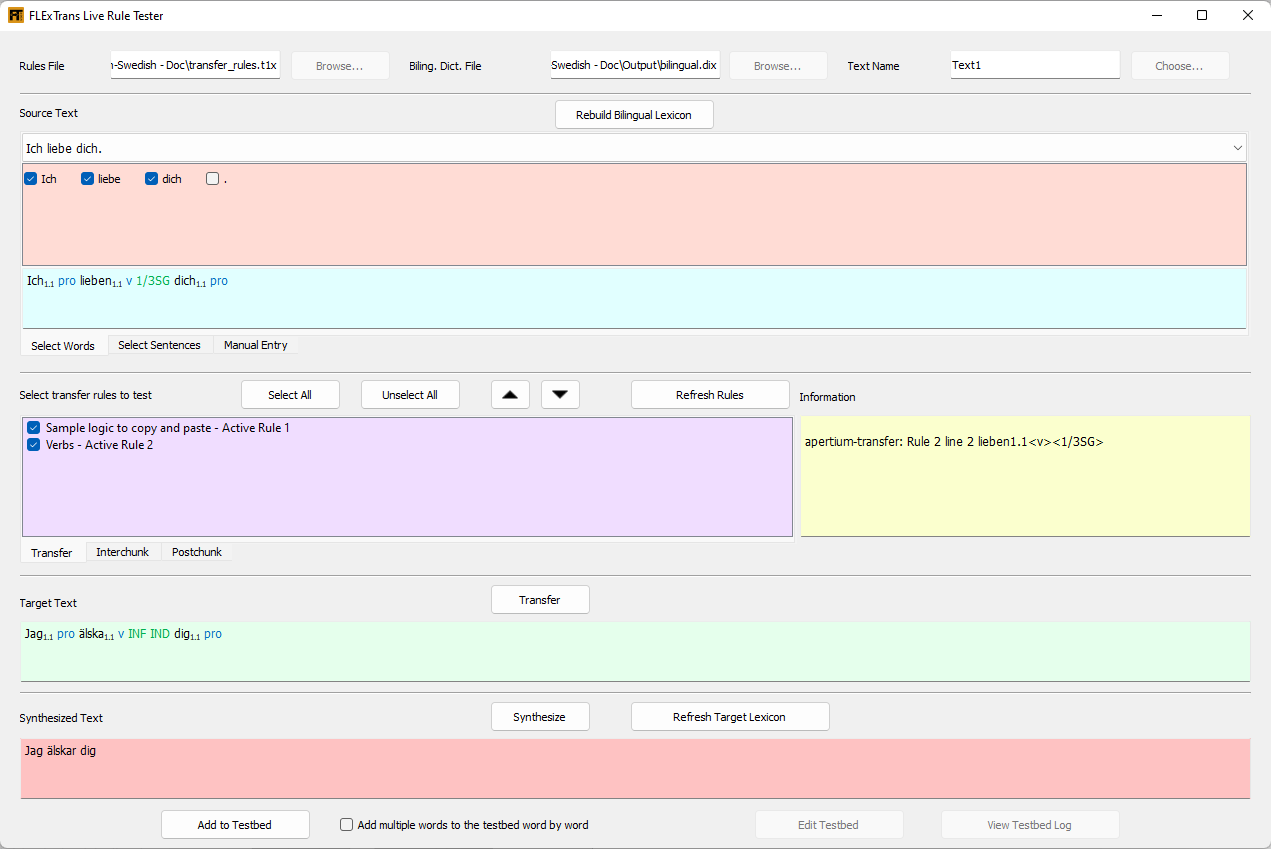
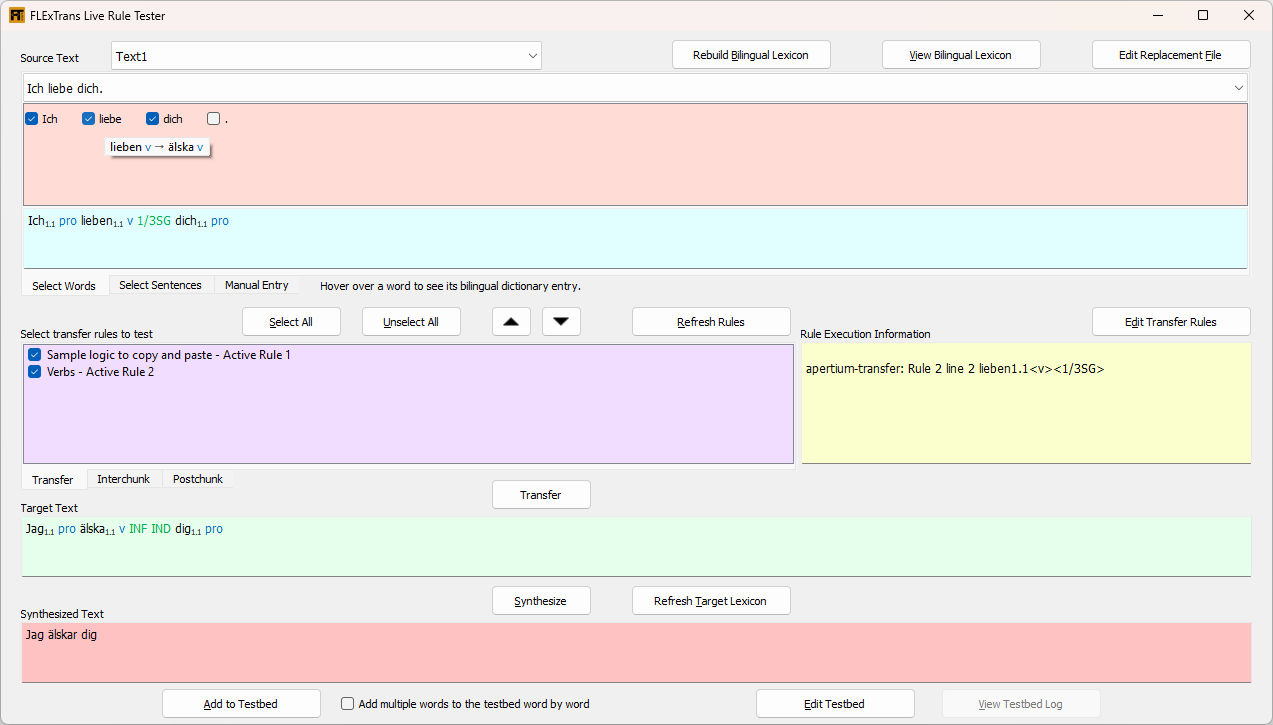
doc updates for SLT & LRT

diff --git a/Doc/UserDoc.htm b/Doc/UserDoc.htm
@@ -10,7 +10,7 @@
    <body>
       <center><b><big><big><big><span style="font-family:Courier New; font-weight:bold; color:navy; ">FLExTrans</span> User Documentation</big></big></big></b></center>
       <center><i></i></center>
-      <center><i>flextrans.help@gmail.com</i></center><br><center><small>9 December, 2022</small></center>
+      <center><i>flextrans.help@gmail.com</i></center><br><center><small>13 December, 2022</small></center>
       <center><small>Version: 3.7</small></center>
       <hr>
       <div>
@@ -29,10 +29,21 @@
             <li><a href="#sTools">3&nbsp;<span style="font-family:Courier New; font-weight:bold; color:navy; ">FLExTrans</span> Tools</a></li>
             <ul>
                <li><a href="#sLinker">3.1&nbsp;The <span style="font-family:Courier New; font-weight:bold; color:navy; ">Sense Linker Tool</span></a></li>
+               <ul>
+                  <li><a href="#sColorKey">3.1.1&nbsp;Color Coding Key</a></li>
+                  <li><a href="#sHowLink">3.1.2&nbsp;Linking</a></li>
+                  <li><a href="#sSearchList">3.1.3&nbsp;Search the All Target Senses List</a></li>
+                  <li><a href="#sFilterList">3.1.4&nbsp;Filtering the List</a></li>
+                  <li><a href="#sSenses2Link">3.1.5&nbsp;Senses to Link Number</a></li>
+                  <li><a href="#sFontControl">3.1.6&nbsp;Font Control</a></li>
+                  <li><a href="#sRebuildBiling">3.1.7&nbsp;Rebuild the Bilingual Lexicon</a></li>
+                  <li><a href="#sSLTChangeSource">3.1.8&nbsp;Change Source Text</a></li>
+               </ul>
                <li><a href="#sRuleTester">3.2&nbsp;The <span style="font-family:Courier New; font-weight:bold; color:navy; ">Live Rule Tester Tool</span></a></li>
                <ul>
                   <li><a href="#sTesterQuickGuide">3.2.1&nbsp;Quick Guide</a></li>
                   <li><a href="#sTesterOther">3.2.2&nbsp;Other Parts of the Tool</a></li>
+                  <li><a href="#sLRTChangeSource">3.2.3&nbsp;Change Source Text</a></li>
                </ul>
                <li><a href="#sSettings">3.3&nbsp;The <span style="font-family:Courier New; font-weight:bold; color:navy; ">Settings Tool</span></a></li>
                <li><a href="#sViewSrcTgt">3.4&nbsp;The <span style="font-family:Courier New; font-weight:bold; color:navy; ">Source/Target Viewer Tool</span></a></li>
@@ -549,6 +560,8 @@
             </tr>
          </table>
       </div>
+      <h3 style=""><a name="sColorKey"></a>3.1.1&nbsp;Color Coding Key
+      </h3>
       <p>Here&#8217;s a key to the color coding:</p>
       <div align="left">
          <table style="" border="1">
@@ -582,15 +595,41 @@
             </tr>
          </table>
       </div>
+      <h3 style=""><a name="sHowLink"></a>3.1.2&nbsp;Linking
+      </h3>
       <p>For suggested sense links (colored in light blue shades), if you want to link them, simply check the check box in the Link
          It column. To link a source sense with a target sense where there is no suggestion or to change an existing link, you need
-         to do two things. First, select the target sense that you want to link to in the drop down list of All Target Senses then
-         go to the Target Head Word column for the source sense in question and double-click there. The target sense information should
-         appear with a green background color. You can use the search text box to find the appropriate target sense.
+         to do two things. First, select the target sense that you want to link to in the drop down list of <span style="font-style:normal; font-weight:bold; ">All Target Senses</span> then go to the <span style="font-style:normal; font-weight:bold; ">Target Head Word</span> column for the source sense in question and double-click there. The target sense information should appear with a green background
+         color. You can use the search text box to find the appropriate target sense.
       </p>
-      <p>If you only want to see the senses that need to be linked, check the box Show Only Unlinked. If you want to hide proper nouns,
-         which you may not want to bother linking, (especially if the form is the same in both languages) click the box Hide Proper
-         Nouns.
+      <h3 style=""><a name="sSearchList"></a>3.1.3&nbsp;Search the All Target Senses List
+      </h3>
+      <p>Use the <span style="font-style:normal; font-weight:bold; ">Search here</span> field to find a sense. This will find senses in the list by matching the beginning of the headwords in the list. If you want
+         to filter the target sense list to those matching part of a headword or the gloss or the part of speech (using parentheses),
+         click on the <span style="font-style:normal; font-weight:bold; ">Search all fields</span> checkbox and then type in the <span style="font-style:normal; font-weight:bold; ">Search here</span> box.
+      </p>
+      <h3 style=""><a name="sFilterList"></a>3.1.4&nbsp;Filtering the List
+      </h3>
+      <p>If you only want to see the senses that need to be linked, check the box <span style="font-style:normal; font-weight:bold; ">Show Only Unlinked</span>. If you want to hide proper nouns, which you may not want to bother linking, (especially if the form is the same in both
+         languages) click the box <span style="font-style:normal; font-weight:bold; ">Hide Proper Nouns</span>.
+      </p>
+      <h3 style=""><a name="sSenses2Link"></a>3.1.5&nbsp;Senses to Link Number
+      </h3>
+      <p>At the bottom left the number of senses left to link is shown. Note that this is not necessarily the number of unchecked boxes,
+         rather the number of unique senses that are remaining to link.
+      </p>
+      <h3 style=""><a name="sFontControl"></a>3.1.6&nbsp;Font Control
+      </h3>
+      <p>Quickly change the font size with the plus and minus buttons next to <span style="font-style:normal; font-weight:bold; ">Zoom</span>. Change all aspects of the font with the <span style="font-style:normal; font-weight:bold; ">Font</span> button.
+      </p>
+      <h3 style=""><a name="sRebuildBiling"></a>3.1.7&nbsp;Rebuild the Bilingual Lexicon
+      </h3>
+      <p>After finishing sense linking, sooner or later you need to rebuild the bilingual lexicon. If the <span style="font-style:normal; font-weight:bold; ">Rebuild the Bilingual Lexicon</span> checkbox is checked, this will happen automatically when you click OK. If you would like to change whether by default this
+         box is checked or unchecked when you start the <span style="font-family:Courier New; font-weight:bold; color:navy; ">Sense Linker Tool</span>, set the corresponding setting in the <span style="font-family:Courier New; font-weight:bold; color:navy; ">Settings Tool</span> tool.
+      </p>
+      <h3 style=""><a name="sSLTChangeSource"></a>3.1.8&nbsp;Change Source Text
+      </h3>
+      <p>If you want to work on linking senses for a different source text, click the <span style="font-style:normal; font-weight:bold; ">Source Text</span> drop-down box and select the desired text. At this point, the <span style="font-family:Courier New; font-weight:bold; color:navy; ">Sense Linker Tool</span> will close and restart.
       </p>
       <h2 style=""><a name="sRuleTester"></a>3.2&nbsp;The <span style="font-family:Courier New; font-weight:bold; color:navy; ">Live Rule Tester Tool</span></h2>
       <p>The <span style="font-family:Courier New; font-weight:bold; color:navy; ">Live Rule Tester Tool</span> is a tool that allows you to test source words or sentences live against transfer rules. This tool is especially helpful
@@ -638,20 +677,24 @@
       </h3>
       <p>By default the transfer rules file, the bilingual lexicon file and the source text are loaded according to the <span style="font-family:Courier New; font-weight:bold; color:navy; ">FLExTrans</span> settings. If you want to rebuild the bilingual lexicon, perhaps after changing something in a lexicon, click the <span style="font-style:normal; font-weight:bold; ">Rebuild Bilingual Lexicon</span> button.
       </p>
-      <p>In this version of the tool, you can&#8217;t change the Source Text Name. You will have to run the <span style="font-family:Courier New; font-weight:bold; color:navy; ">Settings Tool</span>, change the SourceText Name setting and re-run the tool.
-      </p>
       <p>You may have noticed that there is a Manual Entry tab for the source text words. You can enter words (technically word-senses)
          directly in plain text data stream format<span style="font-size:65%; vertical-align:super">[<a href="#nRawDataStream">13</a>]</span>. This might be useful if you want to test a word-sense that isn&#8217;t in a given text.
       </p>
       <p>The <span style="font-style:normal; font-weight:bold; ">Interchunk</span> and <span style="font-style:normal; font-weight:bold; ">Postchunk</span> tabs are for use in testing rules using the advanced <span style="font-family:Courier New; font-weight:bold; color:navy; ">Apertium</span> transfer engine.
       </p>
       <p>You can&#8217;t edit the transfer rules in the <span style="font-family:Courier New; font-weight:bold; color:navy; ">Live Rule Tester Tool</span> and even when you change the order of the rules in the tool that doesn&#8217;t change your transfer rules file. Make your changes
-         in a separate editor. To reload the transfer rules after you have changed them, click on the <span style="font-style:normal; font-weight:bold; ">Refresh Rules</span> button.
+         in the <span style="font-family:Courier New; font-weight:bold; color:navy; ">XMLmind XML Editor</span>. You can launch the editor by clicking on the <span style="font-style:normal; font-weight:bold; ">Edit Transfer Rules</span> button. To reload the transfer rules after you have changed them, click on the <span style="font-style:normal; font-weight:bold; ">Refresh Rules</span> button.
+      </p>
+      <p>The <span style="font-style:normal; font-weight:bold; ">View Bilingual Lexicon</span> and <span style="font-style:normal; font-weight:bold; ">Edit Replacement File</span> buttons will start the <span style="font-family:Courier New; font-weight:bold; color:navy; ">XMLmind XML Editor</span> for viewing and edting the respective files.
       </p>
       <p>If you change the target lexicon, click the <span style="font-style:normal; font-weight:bold; ">Refresh Target Lexicon</span> button to reload it so that upon synthesis, <span style="font-family:Courier New; font-weight:bold; color:navy; ">FLExTrans</span> uses the changed lexicon.
       </p>
       <p>There is a check box that says <span style="font-style:normal; font-weight:bold; ">Add multiple words to the testbed word by word</span>. Use this when you want to add multiple one-word translations to the testbed in batch. This is useful, for example, if you
          have a "sentence" that runs through a paradigm. When you click <span style="font-style:normal; font-weight:bold; ">Add to Testbed</span>, <span style="font-family:Courier New; font-weight:bold; color:navy; ">FLExTrans</span> will add each individual word and its corresponding synthesis to the testbed in one go. Each pair will be its own test.
+      </p>
+      <h3 style=""><a name="sLRTChangeSource"></a>3.2.3&nbsp;Change Source Text
+      </h3>
+      <p>If you want to work on a different source text, click the <span style="font-style:normal; font-weight:bold; ">Source Text</span> drop-down box and select the desired text. At this point, the <span style="font-family:Courier New; font-weight:bold; color:navy; ">Live Rule Tester Tool</span> will close and restart.
       </p>
       <h2 style=""><a name="sSettings"></a>3.3&nbsp;The <span style="font-family:Courier New; font-weight:bold; color:navy; ">Settings Tool</span></h2>
       <p>The <span style="font-family:Courier New; font-weight:bold; color:navy; ">Settings Tool</span> is a tool that helps get <span style="font-family:Courier New; font-weight:bold; color:navy; ">FLExTrans</span> configured the way you want it. Hover over the text box or Browse button to get an explanation of the setting. For file or
